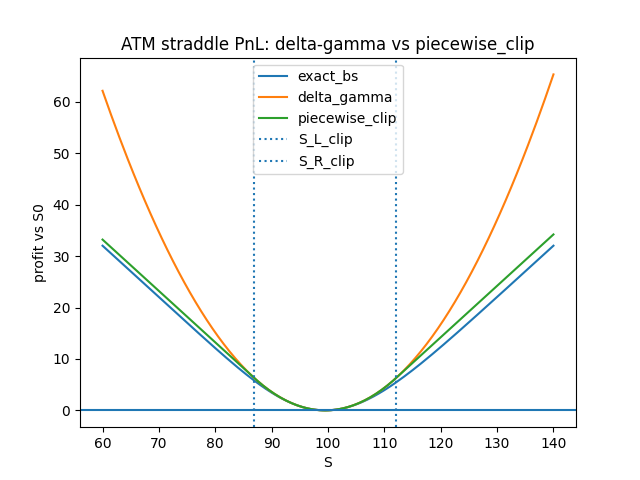
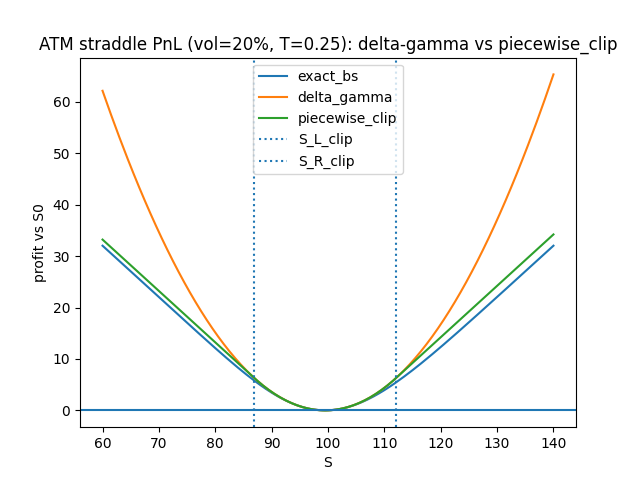
add parameters to graph title

Changed region(s): [[0.0625, 0.0625, 0.9688, 0.125]]

diff --git a/xdelta_gamma.py b/xdelta_gamma.py
@@ -1,3 +1,15 @@
+"""
+Compare simple PnL approximations for an at-the-money Black-Scholes straddle (r=q=0) across spot scenarios.
+
+Build a pandas DataFrame with:
+- pnl_delta_gamma: local Taylor (delta+gamma) approximation about S0
+- pnl_piecewise_clip: C1 piecewise quadratic/linear proxy that clips delta to [-1, +1]
+- pnl_piecewise_fit_bs: same shape but with join points chosen to match BS PnL at the joins
+- pnl_exact_bs: exact Black-Scholes repricing PnL
+
+Optionally plot exact_bs, delta_gamma, and piecewise_clip with vertical lines at the clip join points.
+"""
+
 import numpy as np
 import pandas as pd
 import math
@@ -209,5 +221,6 @@ if PLOT:
     plt.legend()
     plt.xlabel("S")
     plt.ylabel("profit vs S0")
-    plt.title("ATM straddle PnL: delta-gamma vs piecewise_clip")
+#    plt.title("ATM straddle PnL: delta-gamma vs piecewise_clip")
+    plt.title(f"ATM straddle PnL (vol={sigma*100:.0f}%, T={T:.2f}): delta-gamma vs piecewise_clip")
     plt.show()
